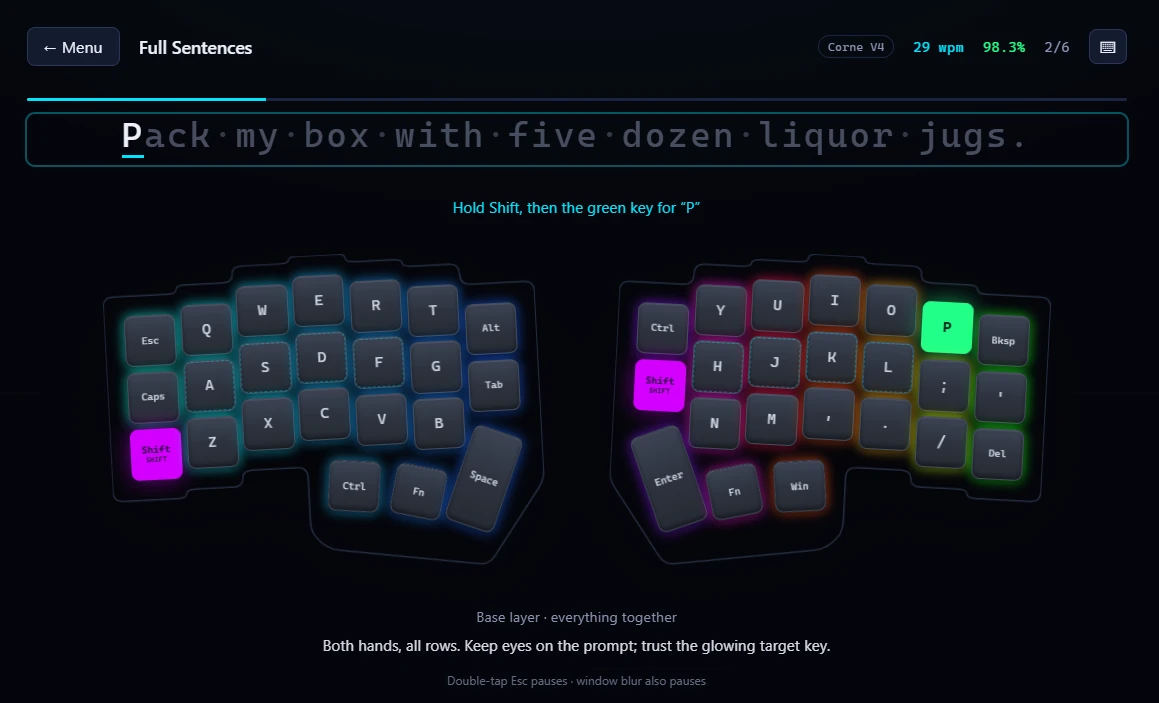
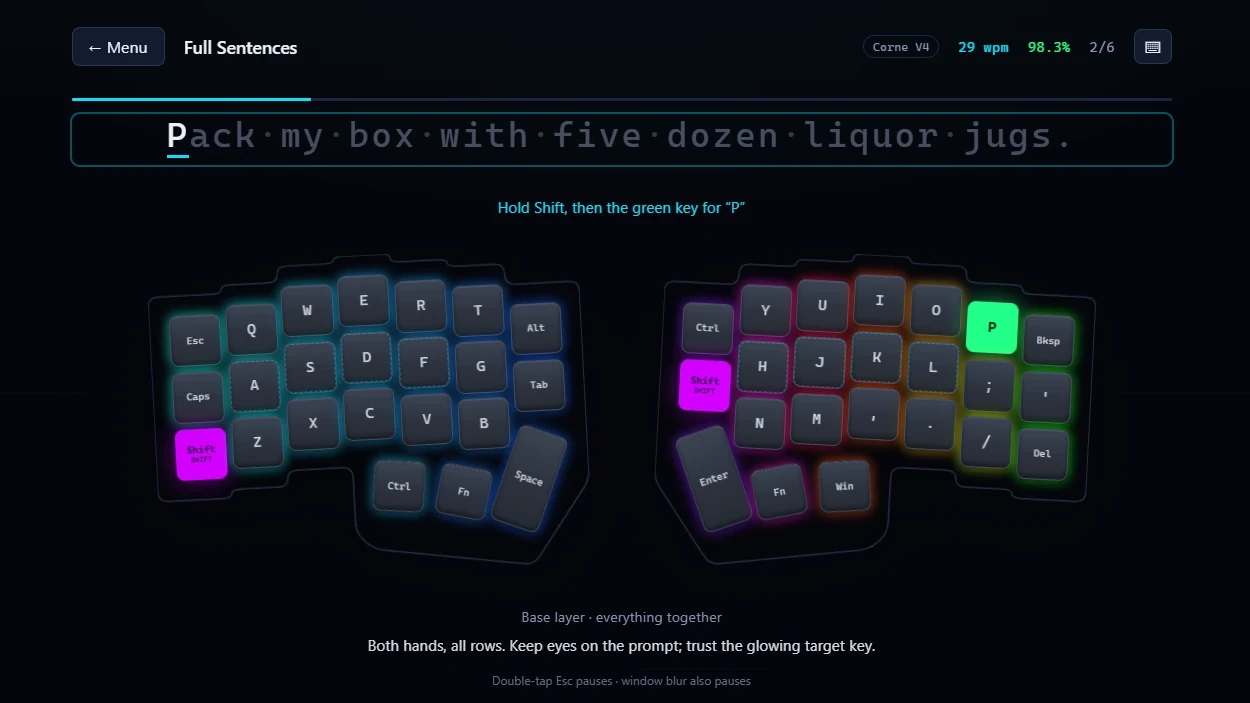
Fix hero image cropping on homepage lead and article heroes
The Layer Tutor hero was 1159x703 (1.65:1) while the plate design crops
heroes to 16:9, so the homepage lead sliced off the app's top bar and cut
the bottom caption line. Padded the source to 1250x703 by edge-replicating
its flat dark border columns — true 16:9, nothing cropped.

That surfaced a second, site-wide bug: article heroes were double-cropping.
BlogPost requested a 2:1 variant (1020x510) while the CSS displays 16:9,
and the hero's lightbox <a> was display:inline — so width:100% resolved
against a shrink-wrapped box and the intrinsic height attribute overrode
aspect-ratio, rendering the hero at 854x574 (1.49:1) and hard-cropping the
sides. global.css already documents this trap for body figures; the hero
never got the rule.

- <Image>/getImage height 510 -> 574 so the requested variant is 16:9
- figure.plate img: height:auto so aspect-ratio governs the box
- figure.plate > a.glightbox: display:block

Verified in-browser across all 7 posts. riced-out-terminal (a 2.34:1
screenshot) now crops ~24% of its width rather than ~14% — it matches the
homepage lead's crop, but the hero is worth reshooting.

diff --git a/src/styles/global.css b/src/styles/global.css
@@ -231,6 +231,17 @@ em, i { color: var(--paper-bright); }
 figure.plate img {
   aspect-ratio: 16 / 9;
   object-fit: cover;
+  /* Overrides the intrinsic `height` attribute so the 16:9 aspect-ratio above
+     actually governs the box. Without this the attribute height wins and the
+     plate renders at whatever ratio the requested variant happens to be. */
+  height: auto;
+}
+/* The hero's lightbox <a> must be block-level for the same reason the body
+   figure's is (see the note below) — as an inline box it shrink-wraps and
+   `width: 100%` on the image resolves against the wrong containing block. */
+figure.plate > a.glightbox {
+  display: block;
+  border-bottom: none;
 }
 .plate::before,
 .plate::after,
